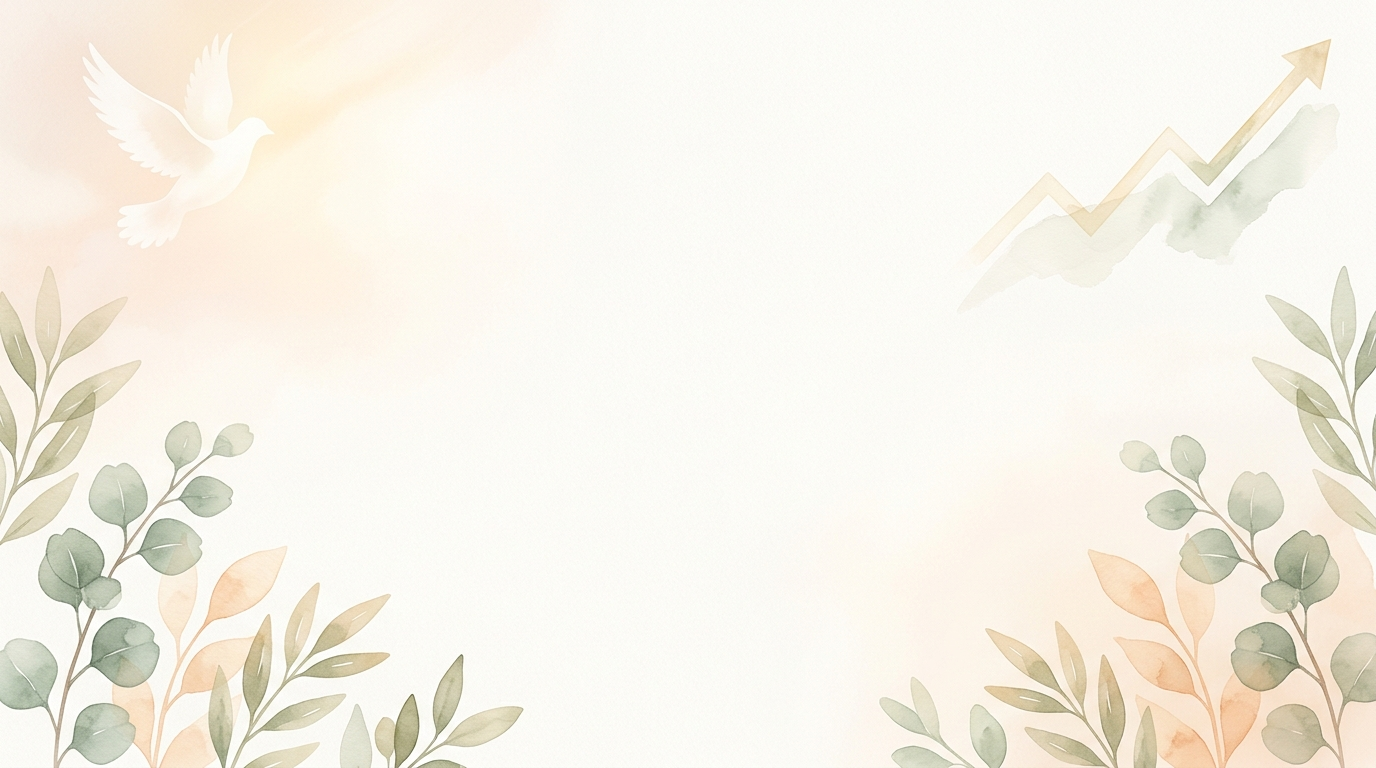
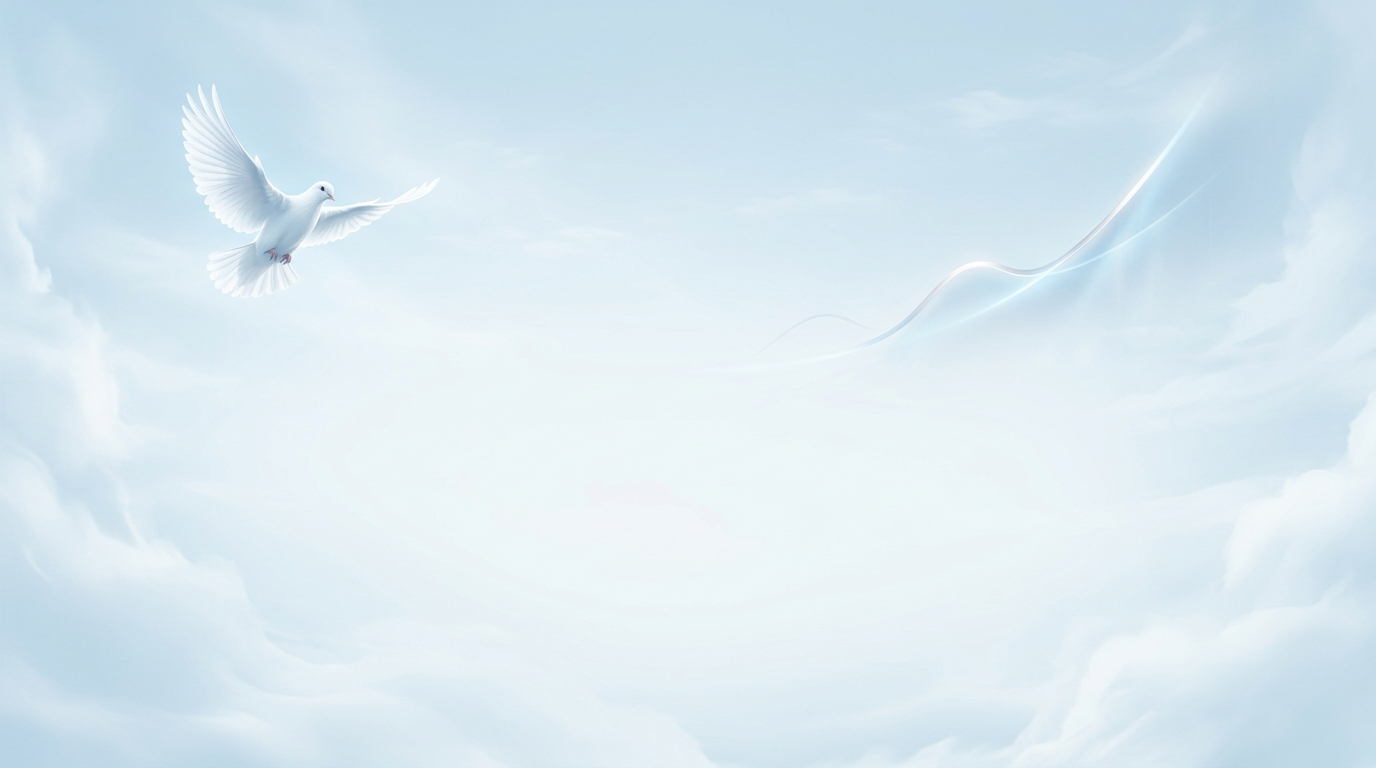
fix(navigation): align Pigeon Light tiles menu palette with official serene sky and navy tokens

diff --git a/frontend/sidebar-navigation.css b/frontend/sidebar-navigation.css
@@ -2354,104 +2354,104 @@ body[data-navigation-layout="tiles"]:has(#navigationHub.open) {
   color: #34d399 !important;
 }
 
-/* Pigeon / Peach Light Mode Support for Menu em Blocos */
+/* Pigeon Light Mode Support for Menu em Blocos */
 body[data-theme="pigeon"][data-navigation-layout="tiles"] #navigationHub.navigation-hub,
 body[data-theme="pigeon"] #navigationHub.navigation-hub {
-  background-color: #FAF5F0 !important;
+  background-color: #F5FAFD !important;
   background-image: 
-    radial-gradient(ellipse at 50% 50%, rgba(255, 255, 255, 0.45) 0%, rgba(247, 240, 233, 0.75) 100%),
-    url('assets/nav-hub-bg-pigeon.jpg?v=20261116-v3') !important;
+    radial-gradient(ellipse at 50% 50%, rgba(245, 250, 253, 0.45) 0%, rgba(235, 243, 248, 0.8) 100%),
+    url('assets/nav-hub-bg-pigeon.jpg?v=20261116-v4') !important;
   background-size: cover !important;
   background-position: center center !important;
   background-repeat: no-repeat !important;
-  color: #173B4B !important;
+  color: #182B36 !important;
 }
 
 body[data-theme="pigeon"] #navigationHub .nav-hub-brand-logo-svg circle {
-  stroke: #2D8A6E !important;
-  fill: #edf5f1 !important;
+  stroke: #58A6CA !important;
+  fill: #DCEEF7 !important;
 }
 body[data-theme="pigeon"] #navigationHub .nav-hub-brand-logo-svg path,
 body[data-theme="pigeon"] #navigationHub .nav-hub-brand-logo-svg polyline {
-  stroke: #2D8A6E !important;
+  stroke: #4F97B8 !important;
 }
 body[data-theme="pigeon"] #navigationHub .nav-hub-brand-text strong {
-  color: #173B4B !important;
+  color: #182B36 !important;
   text-shadow: none !important;
 }
 body[data-theme="pigeon"] #navigationHub .nav-hub-brand-text small {
-  color: #2D8A6E !important;
+  color: #4F97B8 !important;
 }
 body[data-theme="pigeon"] #navigationHub .nav-hub-eyebrow {
-  color: #2D8A6E !important;
+  color: #4F97B8 !important;
   text-shadow: none !important;
 }
 body[data-theme="pigeon"] #navigationHub .nav-hub-heading {
-  color: #173B4B !important;
+  color: #182B36 !important;
   text-shadow: none !important;
 }
 body[data-theme="pigeon"] #navigationHub .nav-hub-highlight {
-  color: #2D8A6E !important;
-  text-shadow: 0 0 16px rgba(45, 138, 110, 0.3) !important;
+  color: #4F97B8 !important;
+  text-shadow: 0 0 16px rgba(79, 151, 184, 0.3) !important;
 }
 body[data-theme="pigeon"] #navigationHub .nav-hub-subheading {
-  color: #5B7380 !important;
+  color: #627D8E !important;
 }
 body[data-theme="pigeon"] #navigationHub .nav-hub-quote-card {
-  background: rgba(255, 255, 255, 0.92) !important;
-  border-color: rgba(220, 195, 182, 0.7) !important;
-  box-shadow: 0 12px 28px rgba(70, 48, 35, 0.08), inset 0 1px 0 #ffffff !important;
+  background: #FFFFFF !important;
+  border-color: #DCE8EF !important;
+  box-shadow: 0 10px 28px rgba(48, 75, 91, 0.06), inset 0 1px 0 #ffffff !important;
 }
 body[data-theme="pigeon"] #navigationHub .nav-hub-quote-text {
-  color: #173B4B !important;
+  color: #182B36 !important;
 }
 body[data-theme="pigeon"] #navigationHub .nav-hub-quote-author {
-  color: #2D8A6E !important;
+  color: #4F97B8 !important;
 }
 body[data-theme="pigeon"] #navigationHub .nav-hub-viewport-close {
-  background: rgba(255, 255, 255, 0.88) !important;
-  border-color: rgba(23, 59, 75, 0.2) !important;
-  color: #173B4B !important;
+  background: #FFFFFF !important;
+  border-color: #DCE8EF !important;
+  color: #304B5B !important;
 }
 body[data-theme="pigeon"] #navigationHub .nav-hub-viewport-close:hover {
-  background: #ffffff !important;
-  border-color: #1F6F57 !important;
-  color: #1F6F57 !important;
-  box-shadow: 0 4px 14px rgba(23, 59, 75, 0.15) !important;
+  background: #EBF3F8 !important;
+  border-color: #58A6CA !important;
+  color: #182B36 !important;
+  box-shadow: 0 4px 14px rgba(48, 75, 91, 0.12) !important;
 }
 body[data-theme="pigeon"] #navigationHub .nav-hub-tile-card {
-  background: linear-gradient(180deg, rgba(255, 255, 255, 0.94) 0%, rgba(252, 248, 244, 0.96) 100%) !important;
-  border: 1.5px solid rgba(220, 195, 182, 0.65) !important;
+  background: linear-gradient(180deg, #FFFFFF 0%, #F5FAFD 100%) !important;
+  border: 1.5px solid #DCE8EF !important;
   border-top: 1.5px solid #ffffff !important;
-  box-shadow: 0 8px 24px rgba(70, 48, 35, 0.06), inset 0 1px 0 rgba(255, 255, 255, 0.9) !important;
+  box-shadow: 0 8px 24px rgba(48, 75, 91, 0.05), inset 0 1px 0 rgba(255, 255, 255, 0.9) !important;
 }
 body[data-theme="pigeon"] #navigationHub .nav-hub-tile-card:hover {
-  background: linear-gradient(180deg, #ffffff 0%, #f7f3ef 100%) !important;
-  border-color: #72B9A0 !important;
-  box-shadow: 0 14px 32px rgba(70, 48, 35, 0.12), 0 0 16px rgba(114, 185, 160, 0.25) !important;
+  background: #FFFFFF !important;
+  border-color: #79BBD6 !important;
+  box-shadow: 0 14px 32px rgba(48, 75, 91, 0.1), 0 0 16px rgba(121, 187, 214, 0.3) !important;
 }
 body[data-theme="pigeon"] #navigationHub .nav-hub-tile-card.active {
-  background: linear-gradient(180deg, #F0F9F5 0%, #E8F4EE 100%) !important;
-  border: 2px solid #2D8A6E !important;
-  box-shadow: 0 0 24px rgba(45, 138, 110, 0.35), inset 0 0 12px rgba(45, 138, 110, 0.1) !important;
+  background: linear-gradient(180deg, #FFFFFF 0%, #EAF4F9 100%) !important;
+  border: 2px solid #58A6CA !important;
+  box-shadow: 0 0 24px rgba(88, 166, 202, 0.35), inset 0 0 12px rgba(121, 187, 214, 0.15) !important;
 }
 body[data-theme="pigeon"] #navigationHub .nav-hub-tile-title {
-  color: #173B4B !important;
+  color: #182B36 !important;
   text-shadow: none !important;
 }
 body[data-theme="pigeon"] #navigationHub .nav-hub-tile-desc {
-  color: #5B7380 !important;
+  color: #627D8E !important;
 }
 body[data-theme="pigeon"] #navigationHub .nav-hub-tile-icon {
-  color: #1F6F57 !important;
-  filter: drop-shadow(0 2px 8px rgba(31, 111, 87, 0.3)) !important;
+  color: #4F97B8 !important;
+  filter: drop-shadow(0 2px 8px rgba(79, 151, 184, 0.25)) !important;
 }
 body[data-theme="pigeon"] #navigationHub .nav-hub-tile-card:hover .nav-hub-tile-icon {
-  color: #2D8A6E !important;
-  filter: drop-shadow(0 4px 12px rgba(45, 138, 110, 0.5)) !important;
+  color: #2A6885 !important;
+  filter: drop-shadow(0 4px 12px rgba(42, 104, 133, 0.45)) !important;
 }
 body[data-theme="pigeon"] #navigationHub .nav-hub-tile-card:focus-visible {
-  outline: 2px solid #2D8A6E !important;
+  outline: 2px solid #58A6CA !important;
   outline-offset: 2px !important;
 }
 
